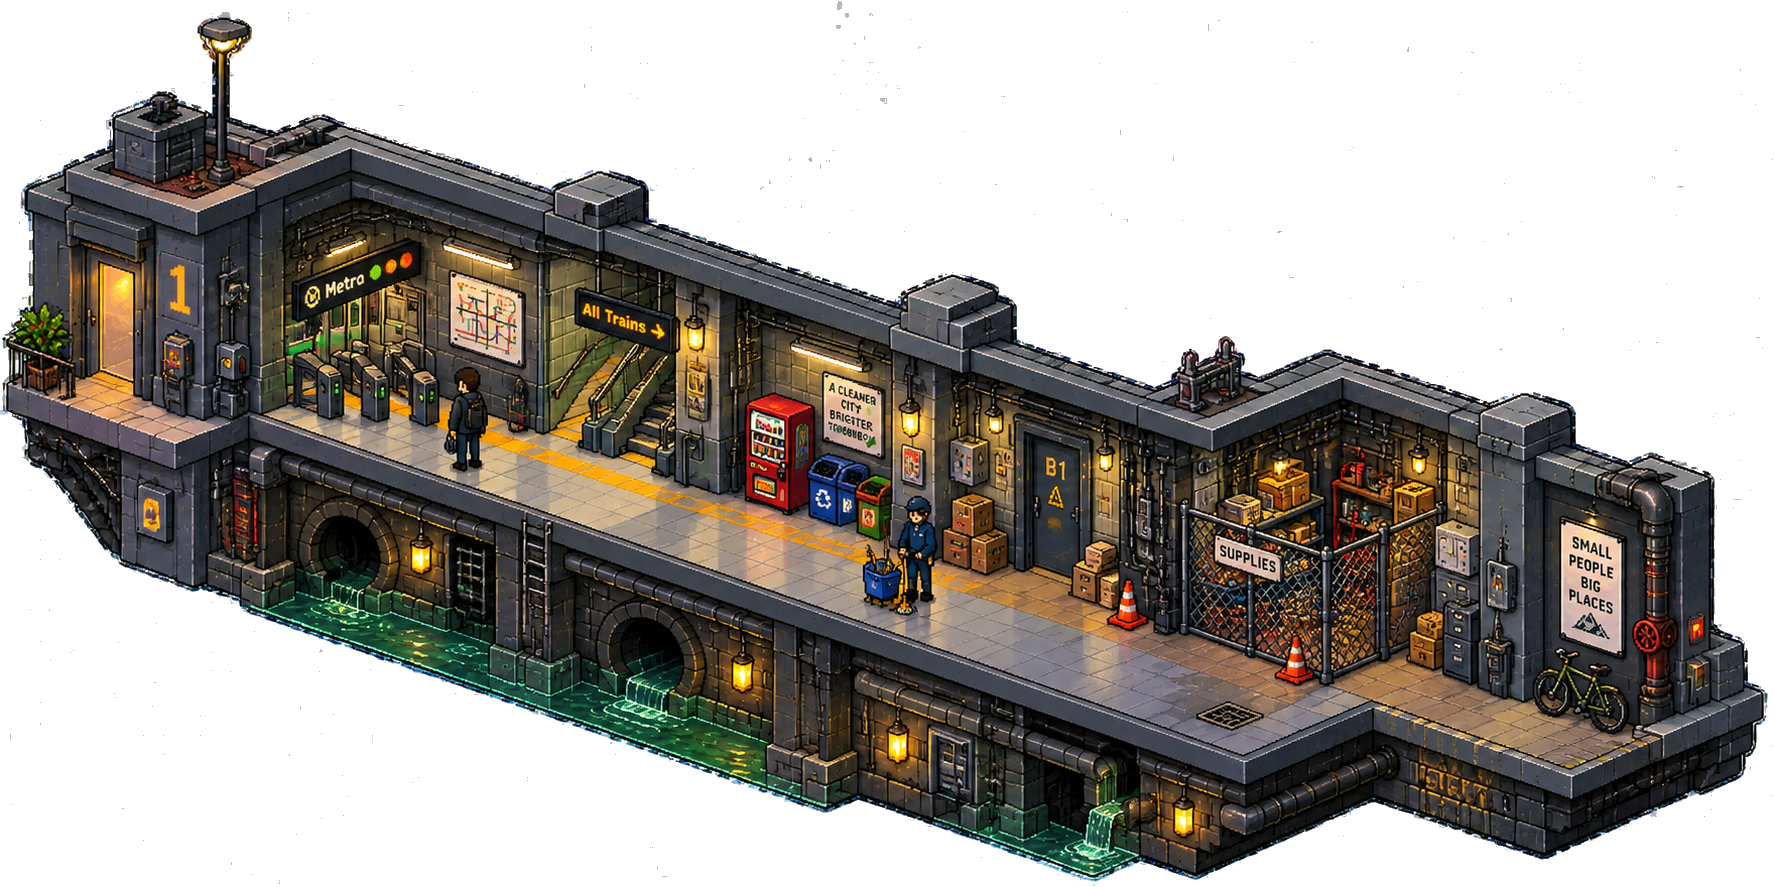
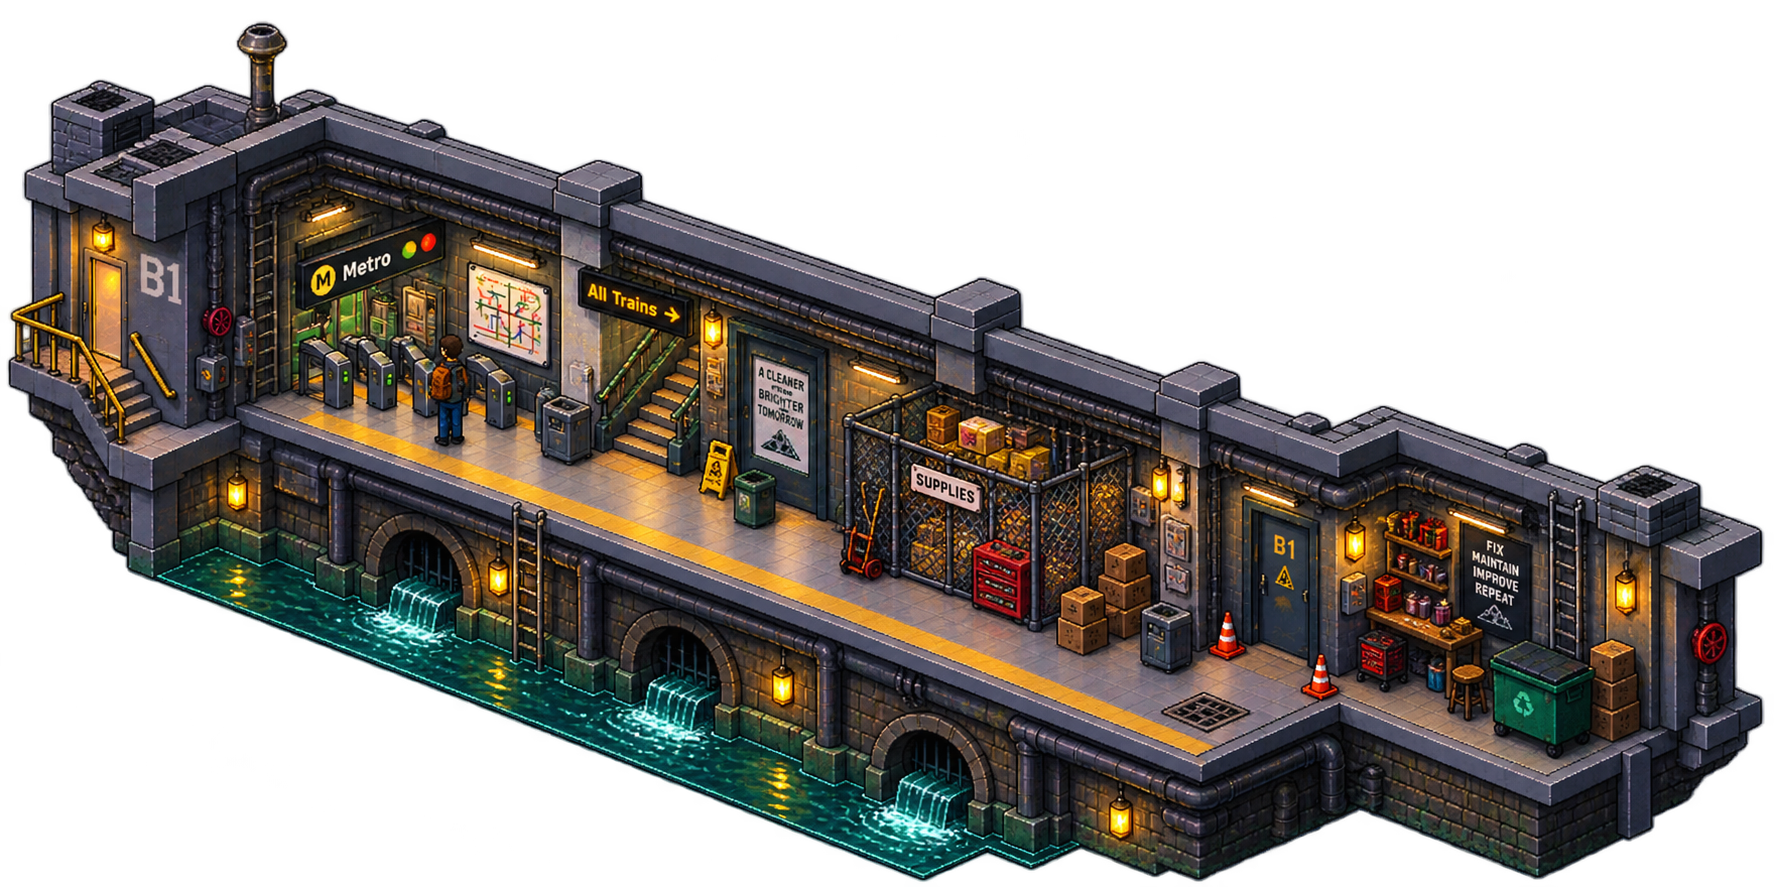
New bottom floor art; frame the tower clear of the dock
The initial framing scaled to the full viewport, so the basement sat behind the
add-floor controls on load.

Claude-Session: https://claude.ai/code/session_01MaXVFccZj9sH8k3CmHqSfE

diff --git a/src/components/Tower.tsx b/src/components/Tower.tsx
@@ -56,8 +56,11 @@ export default function Tower() {
     if (!viewport) return;
     framedRef.current = true;
     const rect = viewport.getBoundingClientRect();
-    const scale = Math.min((rect.width * 0.82) / frame.width, (rect.height * 0.86) / height);
-    focusOn(height / 2, scale);
+    // Leave room for the dock at the bottom, so the first thing you see is the
+    // whole building rather than a building with its basement behind a toolbar.
+    const usableHeight = rect.height - 150;
+    const scale = Math.min((rect.width * 0.82) / frame.width, (usableHeight * 0.94) / height);
+    focusOn(height / 2 - 40 / scale, scale);
   }, [focusOn, frame.width, height, placed.length, viewportRef]);
 
   const post = useCallback(
